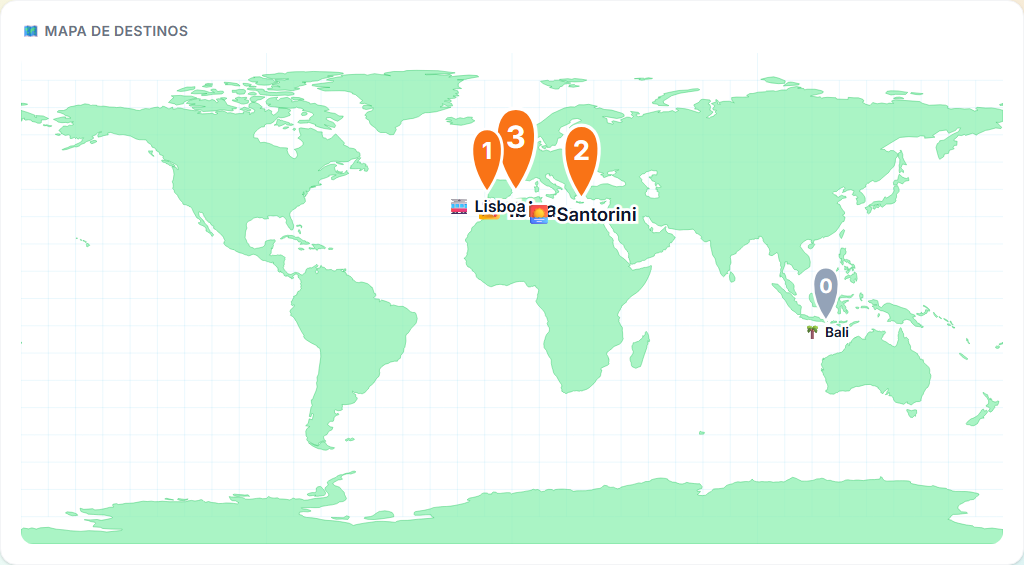
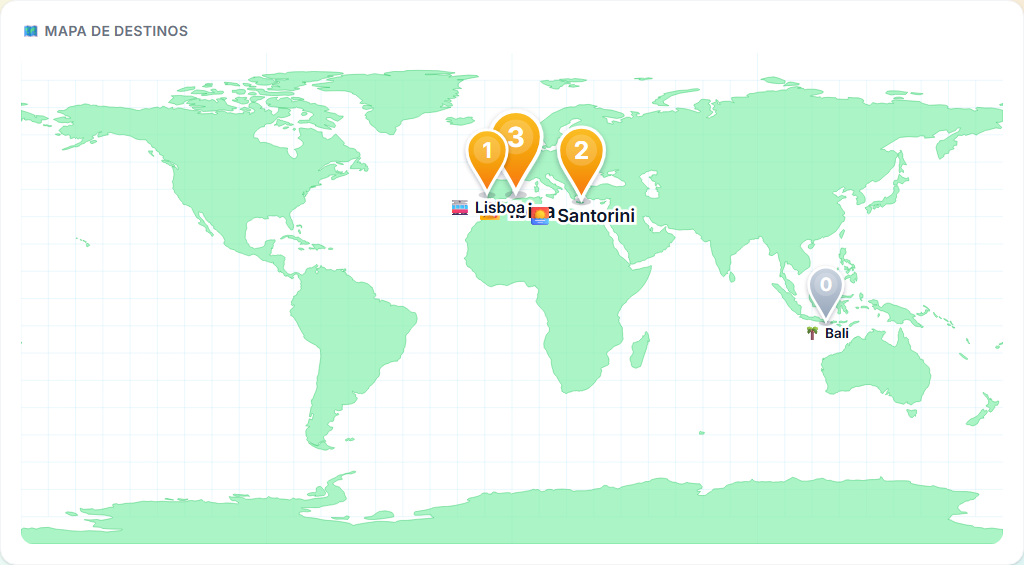
Restyle vote map pins to match web aesthetic (sun gradient + soft shadow)

Changed region(s): [[0.4375, 0.1805, 0.625, 0.4212], [0.7812, 0.4814, 0.8438, 0.6018]]

diff --git a/src/components/charts/VoteMap.tsx b/src/components/charts/VoteMap.tsx
@@ -45,6 +45,26 @@ export function VoteMap({
       </h3>
       <div className="overflow-hidden rounded-xl bg-gradient-to-b from-sea-50 to-sea-100">
         <svg viewBox={`0 0 ${W} ${H}`} className="h-auto w-full">
+          <defs>
+            <linearGradient id="pin-voted" x1="0" y1="0" x2="0" y2="1">
+              <stop offset="0%" stopColor="#FBBF24" />
+              <stop offset="55%" stopColor="#F59E0B" />
+              <stop offset="100%" stopColor="#F97316" />
+            </linearGradient>
+            <linearGradient id="pin-empty" x1="0" y1="0" x2="0" y2="1">
+              <stop offset="0%" stopColor="#CBD5E1" />
+              <stop offset="100%" stopColor="#94A3B8" />
+            </linearGradient>
+            <filter id="pin-shadow" x="-50%" y="-50%" width="200%" height="200%">
+              <feDropShadow
+                dx="0"
+                dy="1.5"
+                stdDeviation="1.6"
+                floodColor="#0f172a"
+                floodOpacity="0.28"
+              />
+            </filter>
+          </defs>
           {/* Graticule for orientation */}
           <path
             d={GRATICULE_PATH}
@@ -64,23 +84,30 @@ export function VoteMap({
           />
 
           {pins.map(({ d, x, y, count }) => {
-            const scale = 0.9 + (count / maxVotes) * 0.5;
+            const scale = 0.9 + (count / maxVotes) * 0.45;
+            const voted = count > 0;
             return (
               <g key={d.id} transform={`translate(${x} ${y}) scale(${scale})`}>
-                {/* Inverted teardrop pin: round bulb on top, point at bottom */}
-                <path
-                  d="M0 0 C-15 -22 -13 -44 0 -44 C13 -44 15 -22 0 0 Z"
-                  fill={count > 0 ? '#f97316' : '#94a3b8'}
-                  stroke="#fff"
-                  strokeWidth="2"
-                />
-                {/* Vote count, directly inside the bulb */}
+                {/* Soft shadow on the map under the pin */}
+                <ellipse cx="0" cy="1.5" rx="6" ry="2.2" fill="#0f172a" opacity="0.18" />
+                {/* Clean map marker: round bulb tapering to a point at the anchor */}
+                <g filter="url(#pin-shadow)">
+                  <path
+                    d="M0 0 C-7 -15 -14 -20 -14 -30 A14 14 0 1 1 14 -30 C14 -20 7 -15 0 0 Z"
+                    fill={voted ? 'url(#pin-voted)' : 'url(#pin-empty)'}
+                    stroke="#fff"
+                    strokeWidth="2"
+                  />
+                  {/* Subtle inner ring to lift the number off the gradient */}
+                  <circle cx="0" cy="-30" r="9.5" fill="#fff" fillOpacity="0.18" />
+                </g>
+                {/* Vote count, centred inside the bulb */}
                 <text
                   x="0"
-                  y="-29"
+                  y="-30"
                   textAnchor="middle"
                   dominantBaseline="central"
-                  fontSize="16"
+                  fontSize="15"
                   fontWeight="700"
                   fill="#fff"
                 >
@@ -89,7 +116,7 @@ export function VoteMap({
                 {/* Destination label below the point */}
                 <text
                   x="0"
-                  y="13"
+                  y="14"
                   textAnchor="middle"
                   fontSize="11"
                   fontWeight="600"